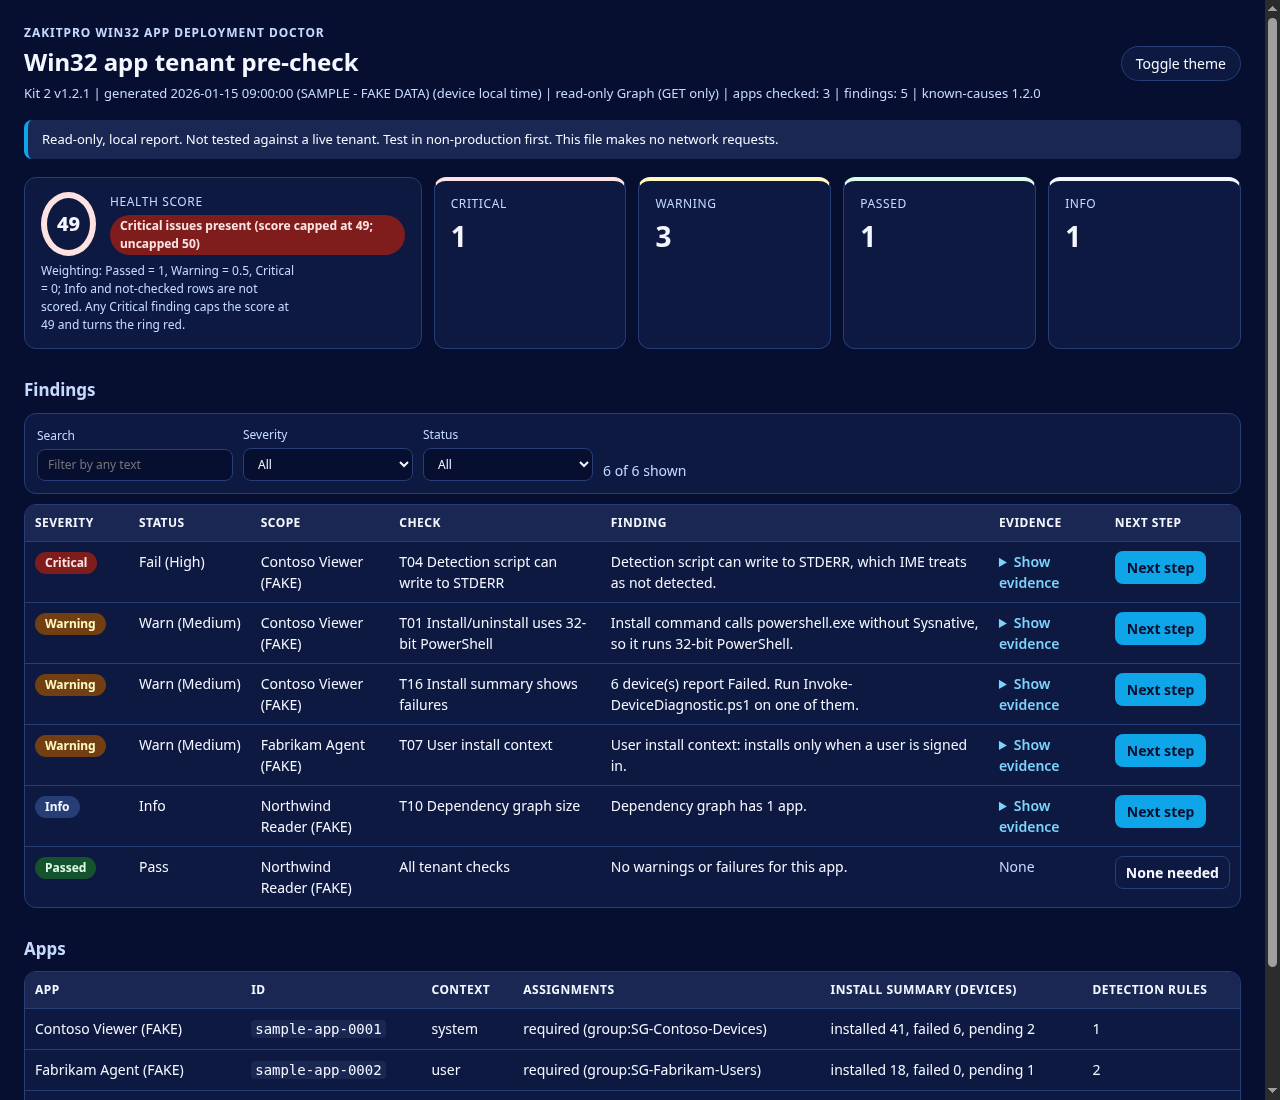
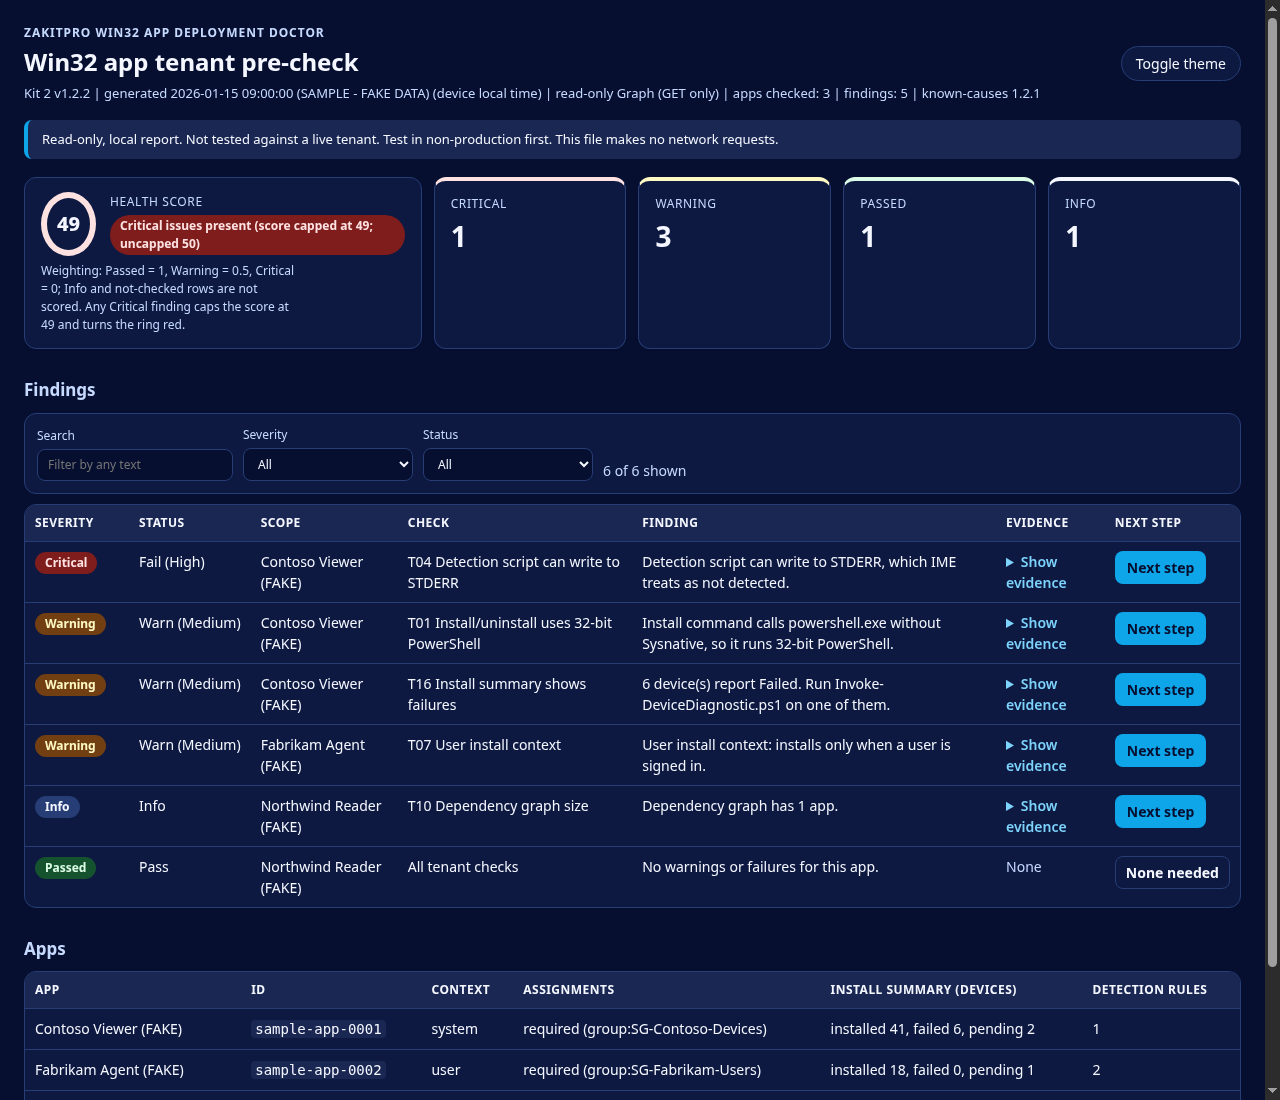
Second review fixes: Kit 1 scripts 1.3.2 (local-admin check Warns when unreadable, safer property lookup, sample timestamps), Kit 2 scripts 1.2.2 (per-app try/catch with T00 Warn, PSSA unused-parameter fix), KC-004/T09 relabelled Multi-source, report columns no mid-word breaks; tests, README, sample

diff --git a/docs/sample-report.html b/docs/sample-report.html
@@ -15,7 +15,7 @@
 .filters input,.filters select{font:inherit;color:var(--text);background:var(--bg);border:1px solid var(--border);border-radius:8px;padding:6px 10px;min-width:170px}
 button.tg{font:inherit;cursor:pointer;background:var(--card);color:var(--text);border:1px solid var(--border);border-radius:9999px;padding:6px 14px}
 .tablewrap{overflow-x:auto;border:1px solid var(--border);border-radius:12px;background:var(--card)}table{border-collapse:collapse;width:100%}th{background:var(--head);color:var(--head-text);text-align:left;padding:9px 10px;font-size:12px;text-transform:uppercase;letter-spacing:.04em;position:sticky;top:0}
-td{padding:9px 10px;border-top:1px solid var(--border);vertical-align:top;word-break:break-word}tbody tr:hover{background:var(--surface)}
+td{padding:9px 10px;border-top:1px solid var(--border);vertical-align:top;word-break:normal;overflow-wrap:break-word}td.c-scope{min-width:110px}td.c-check{min-width:170px}tbody tr:hover{background:var(--surface)}
 .st{display:inline-block;border-radius:9999px;padding:2px 10px;font-size:12px;font-weight:700;white-space:nowrap;word-break:keep-all}
 #zk-findings th:nth-child(1),#zk-findings td:nth-child(1){min-width:104px;white-space:nowrap}#zk-findings th:nth-child(2),#zk-findings td:nth-child(2){min-width:96px;white-space:nowrap;word-break:keep-all}
 .crit{display:inline-block;margin-top:4px;background:var(--red-bg);color:var(--red-fg);font-weight:700;font-size:12px;border-radius:9999px;padding:2px 10px}.legend{font-size:12px;color:var(--muted);margin-top:6px;max-width:260px}.card.scorecard{grid-column:span 2}.st-red{background:var(--red-bg);color:var(--red-fg)}.st-yellow{background:var(--yellow-bg);color:var(--yellow-fg)}.st-green{background:var(--green-bg);color:var(--green-fg)}.st-grey{background:var(--grey-bg);color:var(--grey-fg)}
@@ -25,12 +25,12 @@ a{color:var(--link)}a.next{display:inline-block;background:var(--btn);color:var(
 footer{margin-top:28px;font-size:12px;color:var(--muted);border-top:1px solid var(--border);padding-top:12px}.hidden-js{display:none}
 @media print{:root,:root[data-theme=dark]{--bg:#ffffff;--surface:#f3f4f6;--card:#ffffff;--text:#000000;--muted:#374151;--secondary:#060f30;--border:#9ca3af;--link:#000000;--head:#ffffff;--head-text:#000000;color-scheme:light}
 .filters,button.tg,details{display:none !important}.print-ev{display:block}.wrap{max-width:none;padding:0}th{position:static;border-bottom:2px solid #000}tr{page-break-inside:avoid}.st{border:1px solid #000}
-a.next{background:none;color:#000;border:1px solid #000}a.next:after{content:" (" attr(href) ")";font-weight:400;word-break:break-all}.card{box-shadow:none}tbody tr[hidden]{display:table-row !important}}</style></head><body><div class="wrap"><header class="top"><div><div class="brand">ZakitPro Win32 App Deployment Doctor</div><h1>Win32 app tenant pre-check</h1><div class="meta">Kit 2 v1.2.1 | generated 2026-01-15 09:00:00 (SAMPLE - FAKE DATA) (device local time) | read-only Graph (GET only) | apps checked: 3 | findings: 5 | known-causes 1.2.0</div></div><button type="button" id="zk-theme" class="tg hidden-js" aria-label="Toggle dark or light theme">Toggle theme</button></header><div class="banner">Read-only, local report. Not tested against a live tenant. Test in non-production first. This file makes no network requests.</div><section class="grid" aria-label="Summary"><div class="card scorecard" title="Weighting: Passed = 1, Warning = 0.5, Critical = 0; Info and not-checked rows are not scored. Any Critical finding caps the score at 49 and turns the ring red."><div class="score"><div class="ring red" aria-label="Health score 49 out of 100" data-capped="true">49</div><div><div class="k">Health score</div><div class="crit" role="alert">Critical issues present (score capped at 49; uncapped 50)</div></div></div><div class="legend" id="zk-legend">Weighting: Passed = 1, Warning = 0.5, Critical = 0; Info and not-checked rows are not scored. Any Critical finding caps the score at 49 and turns the ring red.</div></div><div class="card red"><div class="k">Critical</div><div class="v">1</div></div><div class="card yellow"><div class="k">Warning</div><div class="v">3</div></div><div class="card green"><div class="k">Passed</div><div class="v">1</div></div><div class="card grey"><div class="k">Info</div><div class="v">1</div></div></section><h2>Findings</h2><div id="zk-filters" class="filters hidden-js" role="search"><label>Search<input id="zk-q" type="search" placeholder="Filter by any text"></label><label>Severity<select id="zk-sev"><option value="">All</option><option value="red">Critical</option><option value="yellow">Warning</option><option value="green">Passed</option><option value="grey">Info</option></select></label><label>Status<select id="zk-st"><option value="">All</option><option value="Fail (High)">Fail (High)</option><option value="Info">Info</option><option value="Pass">Pass</option><option value="Warn (Medium)">Warn (Medium)</option></select></label><span id="zk-count" class="muted" aria-live="polite"></span></div><div class="tablewrap"><table id="zk-findings"><thead><tr><th>Severity</th><th>Status</th><th>Scope</th><th>Check</th><th>Finding</th><th>Evidence</th><th>Next step</th></tr></thead><tbody><tr data-sev="red" data-st="Fail (High)"><td><span class="st st-red" data-status="red">Critical</span></td><td>Fail (High)</td><td>Contoso Viewer (FAKE)</td><td>T04 Detection script can write to STDERR</td><td>Detection script can write to STDERR, which IME treats as not detected.</td><td><details><summary>Show evidence</summary><pre>Write-Error &quot;not found&quot; (line 12 of detect.ps1)</pre></details><pre class="print-ev">Write-Error &quot;not found&quot; (line 12 of detect.ps1)</pre></td><td><a class="next" href="https://learn.microsoft.com/en-us/intune/app-management/deployment/add-win32" rel="noopener noreferrer">Next step</a></td></tr>
-<tr data-sev="yellow" data-st="Warn (Medium)"><td><span class="st st-yellow" data-status="yellow">Warning</span></td><td>Warn (Medium)</td><td>Contoso Viewer (FAKE)</td><td>T01 Install/uninstall uses 32-bit PowerShell</td><td>Install command calls powershell.exe without Sysnative, so it runs 32-bit PowerShell.</td><td><details><summary>Show evidence</summary><pre>powershell.exe -ExecutionPolicy Bypass -File install.ps1</pre></details><pre class="print-ev">powershell.exe -ExecutionPolicy Bypass -File install.ps1</pre></td><td><a class="next" href="https://learn.microsoft.com/en-us/intune/app-management/deployment/add-win32" rel="noopener noreferrer">Next step</a></td></tr>
-<tr data-sev="yellow" data-st="Warn (Medium)"><td><span class="st st-yellow" data-status="yellow">Warning</span></td><td>Warn (Medium)</td><td>Contoso Viewer (FAKE)</td><td>T16 Install summary shows failures</td><td>6 device(s) report Failed. Run Invoke-DeviceDiagnostic.ps1 on one of them.</td><td><details><summary>Show evidence</summary><pre>installed 41, failed 6, pending 2</pre></details><pre class="print-ev">installed 41, failed 6, pending 2</pre></td><td><a class="next" href="https://learn.microsoft.com/en-us/graph/api/intune-apps-mobileappinstallsummary-get?view=graph-rest-beta" rel="noopener noreferrer">Next step</a></td></tr>
-<tr data-sev="yellow" data-st="Warn (Medium)"><td><span class="st st-yellow" data-status="yellow">Warning</span></td><td>Warn (Medium)</td><td>Fabrikam Agent (FAKE)</td><td>T07 User install context</td><td>User install context: installs only when a user is signed in.</td><td><details><summary>Show evidence</summary><pre>runAsAccount = user</pre></details><pre class="print-ev">runAsAccount = user</pre></td><td><a class="next" href="https://learn.microsoft.com/en-us/intune/app-management/deployment/add-win32" rel="noopener noreferrer">Next step</a></td></tr>
-<tr data-sev="grey" data-st="Info"><td><span class="st st-grey" data-status="grey">Info</span></td><td>Info</td><td>Northwind Reader (FAKE)</td><td>T10 Dependency graph size</td><td>Dependency graph has 1 app.</td><td><details><summary>Show evidence</summary><pre>dependencies: 1</pre></details><pre class="print-ev">dependencies: 1</pre></td><td><a class="next" href="https://learn.microsoft.com/en-us/intune/app-management/deployment/add-win32" rel="noopener noreferrer">Next step</a></td></tr>
-<tr data-sev="green" data-st="Pass"><td><span class="st st-green" data-status="green">Passed</span></td><td>Pass</td><td>Northwind Reader (FAKE)</td><td>All tenant checks</td><td>No warnings or failures for this app.</td><td><span class="muted">None</span></td><td><span class="next next-code">None needed</span></td></tr>
+a.next{background:none;color:#000;border:1px solid #000}a.next:after{content:" (" attr(href) ")";font-weight:400;word-break:break-all}.card{box-shadow:none}tbody tr[hidden]{display:table-row !important}}</style></head><body><div class="wrap"><header class="top"><div><div class="brand">ZakitPro Win32 App Deployment Doctor</div><h1>Win32 app tenant pre-check</h1><div class="meta">Kit 2 v1.2.2 | generated 2026-01-15 09:00:00 (SAMPLE - FAKE DATA) (device local time) | read-only Graph (GET only) | apps checked: 3 | findings: 5 | known-causes 1.2.1</div></div><button type="button" id="zk-theme" class="tg hidden-js" aria-label="Toggle dark or light theme">Toggle theme</button></header><div class="banner">Read-only, local report. Not tested against a live tenant. Test in non-production first. This file makes no network requests.</div><section class="grid" aria-label="Summary"><div class="card scorecard" title="Weighting: Passed = 1, Warning = 0.5, Critical = 0; Info and not-checked rows are not scored. Any Critical finding caps the score at 49 and turns the ring red."><div class="score"><div class="ring red" aria-label="Health score 49 out of 100" data-capped="true">49</div><div><div class="k">Health score</div><div class="crit" role="alert">Critical issues present (score capped at 49; uncapped 50)</div></div></div><div class="legend" id="zk-legend">Weighting: Passed = 1, Warning = 0.5, Critical = 0; Info and not-checked rows are not scored. Any Critical finding caps the score at 49 and turns the ring red.</div></div><div class="card red"><div class="k">Critical</div><div class="v">1</div></div><div class="card yellow"><div class="k">Warning</div><div class="v">3</div></div><div class="card green"><div class="k">Passed</div><div class="v">1</div></div><div class="card grey"><div class="k">Info</div><div class="v">1</div></div></section><h2>Findings</h2><div id="zk-filters" class="filters hidden-js" role="search"><label>Search<input id="zk-q" type="search" placeholder="Filter by any text"></label><label>Severity<select id="zk-sev"><option value="">All</option><option value="red">Critical</option><option value="yellow">Warning</option><option value="green">Passed</option><option value="grey">Info</option></select></label><label>Status<select id="zk-st"><option value="">All</option><option value="Fail (High)">Fail (High)</option><option value="Info">Info</option><option value="Pass">Pass</option><option value="Warn (Medium)">Warn (Medium)</option></select></label><span id="zk-count" class="muted" aria-live="polite"></span></div><div class="tablewrap"><table id="zk-findings"><thead><tr><th>Severity</th><th>Status</th><th>Scope</th><th>Check</th><th>Finding</th><th>Evidence</th><th>Next step</th></tr></thead><tbody><tr data-sev="red" data-st="Fail (High)"><td><span class="st st-red" data-status="red">Critical</span></td><td>Fail (High)</td><td class="c-scope">Contoso Viewer (FAKE)</td><td class="c-check">T04 Detection script can write to STDERR</td><td>Detection script can write to STDERR, which IME treats as not detected.</td><td><details><summary>Show evidence</summary><pre>Write-Error &quot;not found&quot; (line 12 of detect.ps1)</pre></details><pre class="print-ev">Write-Error &quot;not found&quot; (line 12 of detect.ps1)</pre></td><td><a class="next" href="https://learn.microsoft.com/en-us/intune/app-management/deployment/add-win32" rel="noopener noreferrer">Next step</a></td></tr>
+<tr data-sev="yellow" data-st="Warn (Medium)"><td><span class="st st-yellow" data-status="yellow">Warning</span></td><td>Warn (Medium)</td><td class="c-scope">Contoso Viewer (FAKE)</td><td class="c-check">T01 Install/uninstall uses 32-bit PowerShell</td><td>Install command calls powershell.exe without Sysnative, so it runs 32-bit PowerShell.</td><td><details><summary>Show evidence</summary><pre>powershell.exe -ExecutionPolicy Bypass -File install.ps1</pre></details><pre class="print-ev">powershell.exe -ExecutionPolicy Bypass -File install.ps1</pre></td><td><a class="next" href="https://learn.microsoft.com/en-us/intune/app-management/deployment/add-win32" rel="noopener noreferrer">Next step</a></td></tr>
+<tr data-sev="yellow" data-st="Warn (Medium)"><td><span class="st st-yellow" data-status="yellow">Warning</span></td><td>Warn (Medium)</td><td class="c-scope">Contoso Viewer (FAKE)</td><td class="c-check">T16 Install summary shows failures</td><td>6 device(s) report Failed. Run Invoke-DeviceDiagnostic.ps1 on one of them.</td><td><details><summary>Show evidence</summary><pre>installed 41, failed 6, pending 2</pre></details><pre class="print-ev">installed 41, failed 6, pending 2</pre></td><td><a class="next" href="https://learn.microsoft.com/en-us/graph/api/intune-apps-mobileappinstallsummary-get?view=graph-rest-beta" rel="noopener noreferrer">Next step</a></td></tr>
+<tr data-sev="yellow" data-st="Warn (Medium)"><td><span class="st st-yellow" data-status="yellow">Warning</span></td><td>Warn (Medium)</td><td class="c-scope">Fabrikam Agent (FAKE)</td><td class="c-check">T07 User install context</td><td>User install context: installs only when a user is signed in.</td><td><details><summary>Show evidence</summary><pre>runAsAccount = user</pre></details><pre class="print-ev">runAsAccount = user</pre></td><td><a class="next" href="https://learn.microsoft.com/en-us/intune/app-management/deployment/add-win32" rel="noopener noreferrer">Next step</a></td></tr>
+<tr data-sev="grey" data-st="Info"><td><span class="st st-grey" data-status="grey">Info</span></td><td>Info</td><td class="c-scope">Northwind Reader (FAKE)</td><td class="c-check">T10 Dependency graph size</td><td>Dependency graph has 1 app.</td><td><details><summary>Show evidence</summary><pre>dependencies: 1</pre></details><pre class="print-ev">dependencies: 1</pre></td><td><a class="next" href="https://learn.microsoft.com/en-us/intune/app-management/deployment/add-win32" rel="noopener noreferrer">Next step</a></td></tr>
+<tr data-sev="green" data-st="Pass"><td><span class="st st-green" data-status="green">Passed</span></td><td>Pass</td><td class="c-scope">Northwind Reader (FAKE)</td><td class="c-check">All tenant checks</td><td>No warnings or failures for this app.</td><td><span class="muted">None</span></td><td><span class="next next-code">None needed</span></td></tr>
 </tbody></table></div><h2>Apps</h2><div class="tablewrap"><table><thead><tr><th>App</th><th>ID</th><th>Context</th><th>Assignments</th><th>Install summary (devices)</th><th>Detection rules</th></tr></thead><tbody><tr><td>Contoso Viewer (FAKE)</td><td><code>sample-app-0001</code></td><td>system</td><td>required (group:SG-Contoso-Devices)</td><td>installed 41, failed 6, pending 2</td><td>1</td></tr>
 <tr><td>Fabrikam Agent (FAKE)</td><td><code>sample-app-0002</code></td><td>user</td><td>required (group:SG-Fabrikam-Users)</td><td>installed 18, failed 0, pending 1</td><td>2</td></tr>
 <tr><td>Northwind Reader (FAKE)</td><td><code>sample-app-0003</code></td><td>system</td><td>available (group:SG-Northwind)</td><td>installed 12, failed 0</td><td>1</td></tr></tbody></table></div><footer>Health score = round(100 x (Passed + 0.5 x Warning) / (Passed + Warning + Critical)); Info and not-checked rows are excluded, and the score is 100 when nothing was scored. If any Critical finding exists, the score is capped at 49 and shown in red. It summarises this run only and is not a security rating. Generated locally by a read-only script; no data leaves this file.</footer></div><script>(function(){var d=document,r=d.documentElement;

diff --git a/README.md b/README.md
@@ -1,6 +1,6 @@
 # Deployment Doctor (beta scripts)
 
-Read-only PowerShell diagnostics for Windows Autopilot / Autopilot device preparation (Kit 1 scripts v1.3.1) and Intune Win32 app deployments (Kit 2 scripts v1.2.1), from ZakitPro.
+Read-only PowerShell diagnostics for Windows Autopilot / Autopilot device preparation (Kit 1 scripts v1.3.2) and Intune Win32 app deployments (Kit 2 scripts v1.2.2), from ZakitPro.
 
 > **Warning: not tested against a live tenant.** These scripts have been checked only with PSScriptAnalyzer and Pester unit tests that use mocked Graph responses and synthetic log files. They have not been run on a real tenant or a real device.
 >
@@ -71,7 +71,8 @@ Each script writes one self-contained HTML dashboard next to its JSON report. It
 - **Themes:** light and dark, following `prefers-color-scheme`, plus a toggle button. Colours come from the ZakitPro design system, with accessible contrast. Text uses the system font stack.
 - **Print:** print CSS expands all evidence, shows every row, and prints link URLs.
 - **Header:** each kit's own name. A Kit 2 device report built with `-LogPath` names the analysed log source ("Offline log analysis") instead of the computer it ran on. A Kit 1 `-SamplePath` report says "Sample data" and "FAKE".
-- **Not applicable checks:** on a tenant with no Autopilot device preparation policy, Kit 1's Device Prep service principal and custom-role checks report Info ("Not applicable now") instead of Critical/Warning.
+- **Not applicable checks:** on a tenant with no Autopilot device preparation policy, Kit 1's Device Prep service principal and custom-role checks report Info ("Not applicable now") instead of Critical/Warning. With a Standard-user Device Prep policy, the Entra local-admin check reports Warn, not Pass, when that setting can't be read.
+- **Resilient tenant scan (Kit 2):** each app is checked on its own. If one app object can't be evaluated, it gets a Warning finding (`T00`) and the rest of the apps are still checked and reported.
 - **`-NoHtml`:** writes only the JSON report. The scripts stay read-only: the local report files are the only thing they write.
 
 | Light | Dark |
@@ -120,6 +121,7 @@ Install-Module Pester -MinimumVersion 5.0 -Scope CurrentUser
 Install-Module PSScriptAnalyzer -Scope CurrentUser
 Invoke-Pester -Path ./kit1/tests, ./kit2/scripts/tests
 ```
+One test is skipped on purpose in this repo: it checks that every KC ID cited by the paid Kit 1 guide exists, and the guide isn't published here.
 
 ## Reporting results
 Open an issue with the **Test report** template. Remove tenant names, tenant/device/user IDs, UPNs and any secrets before you post.
